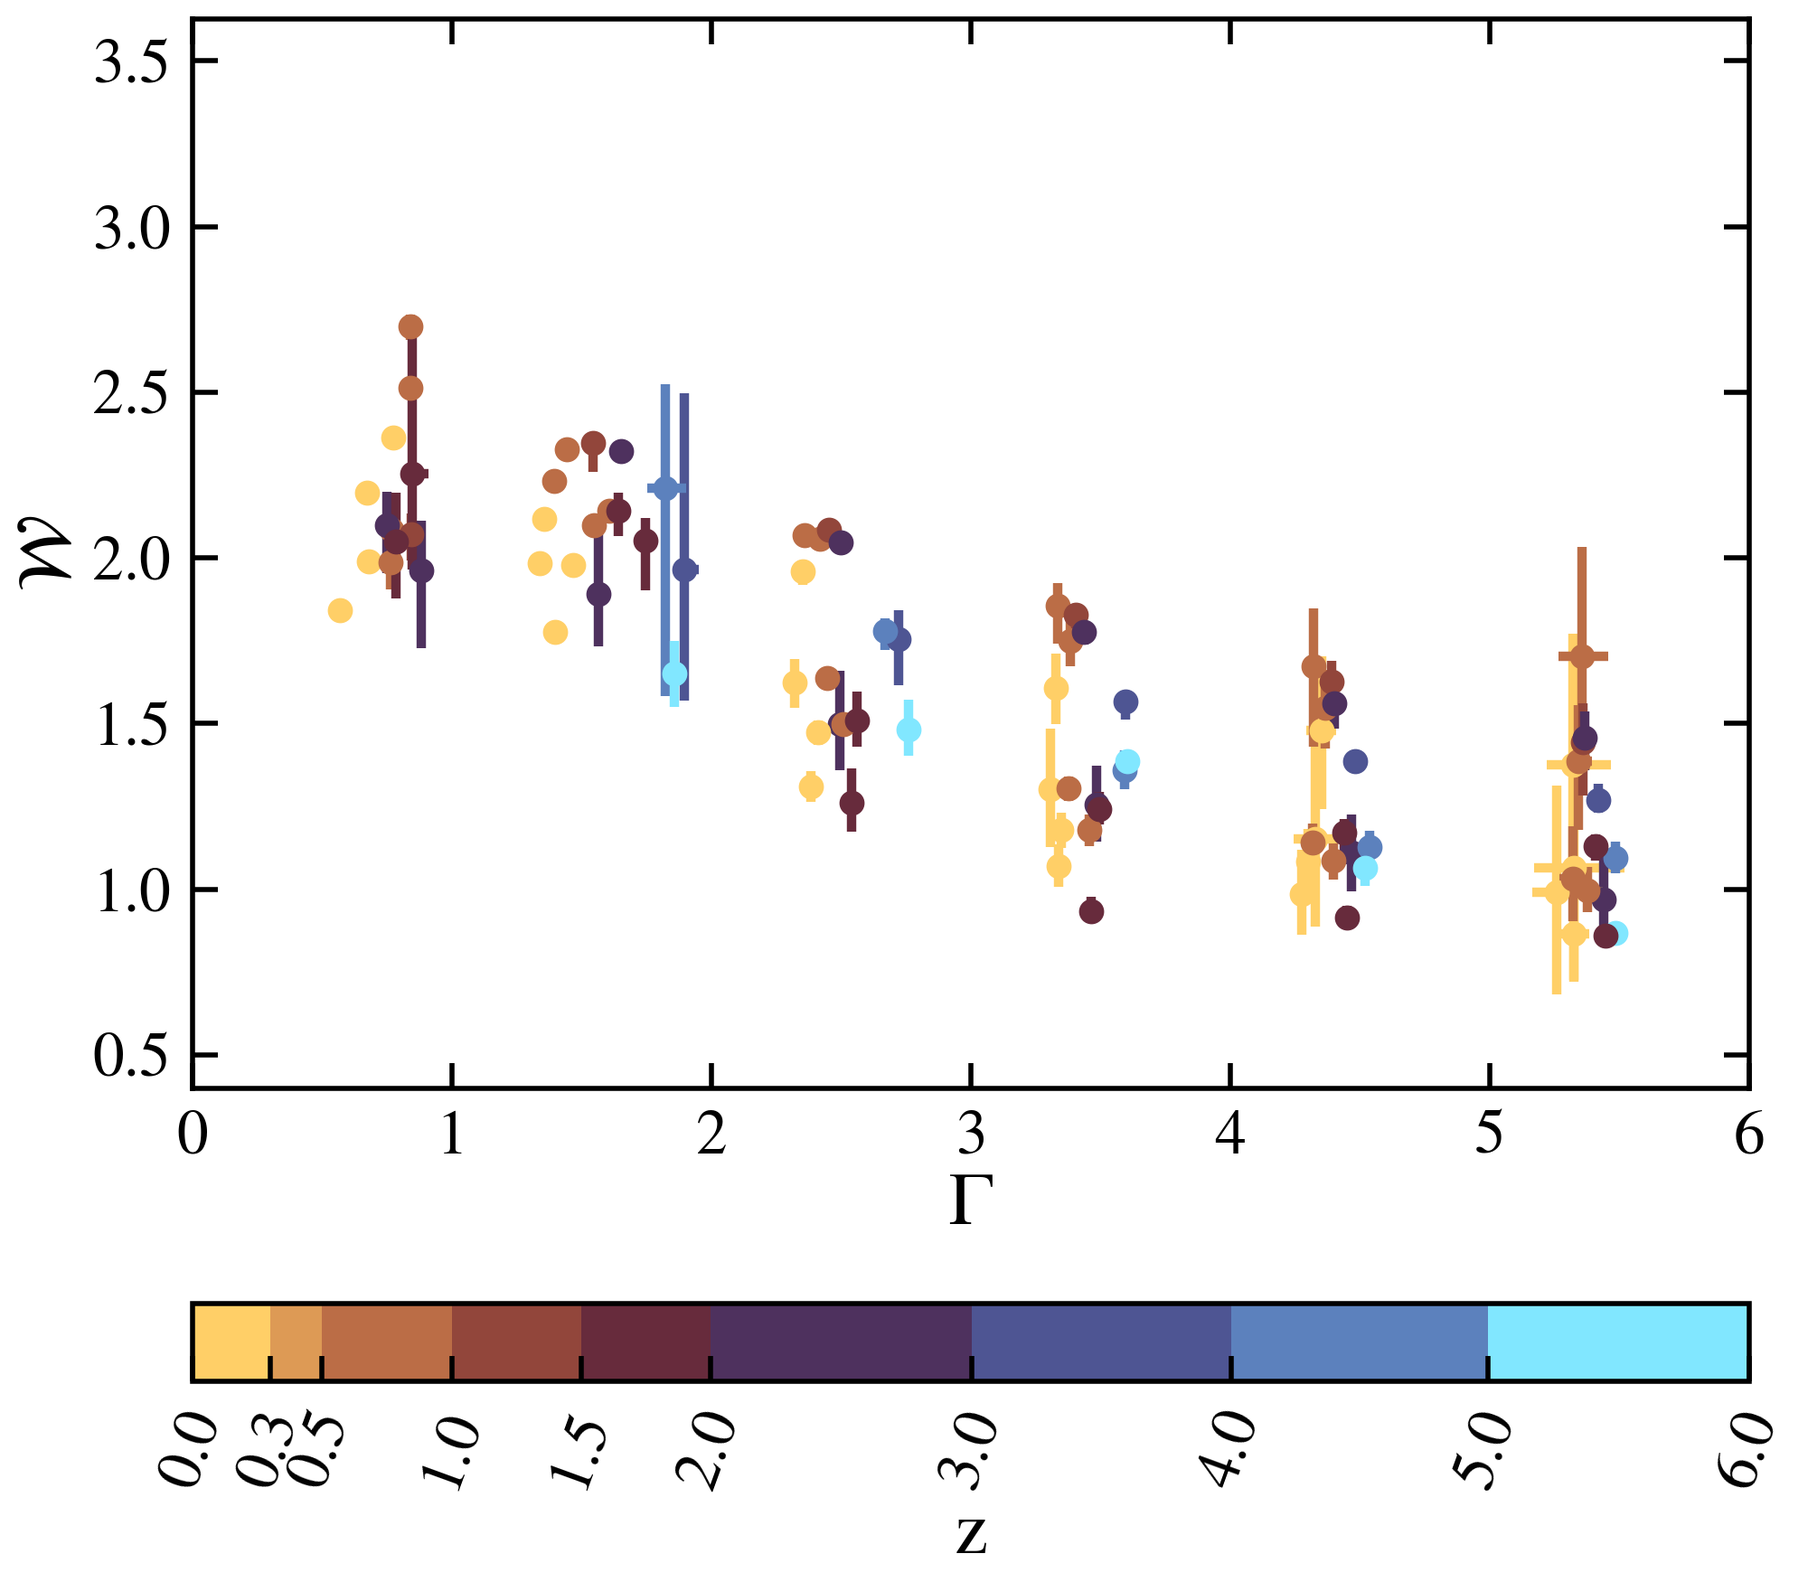
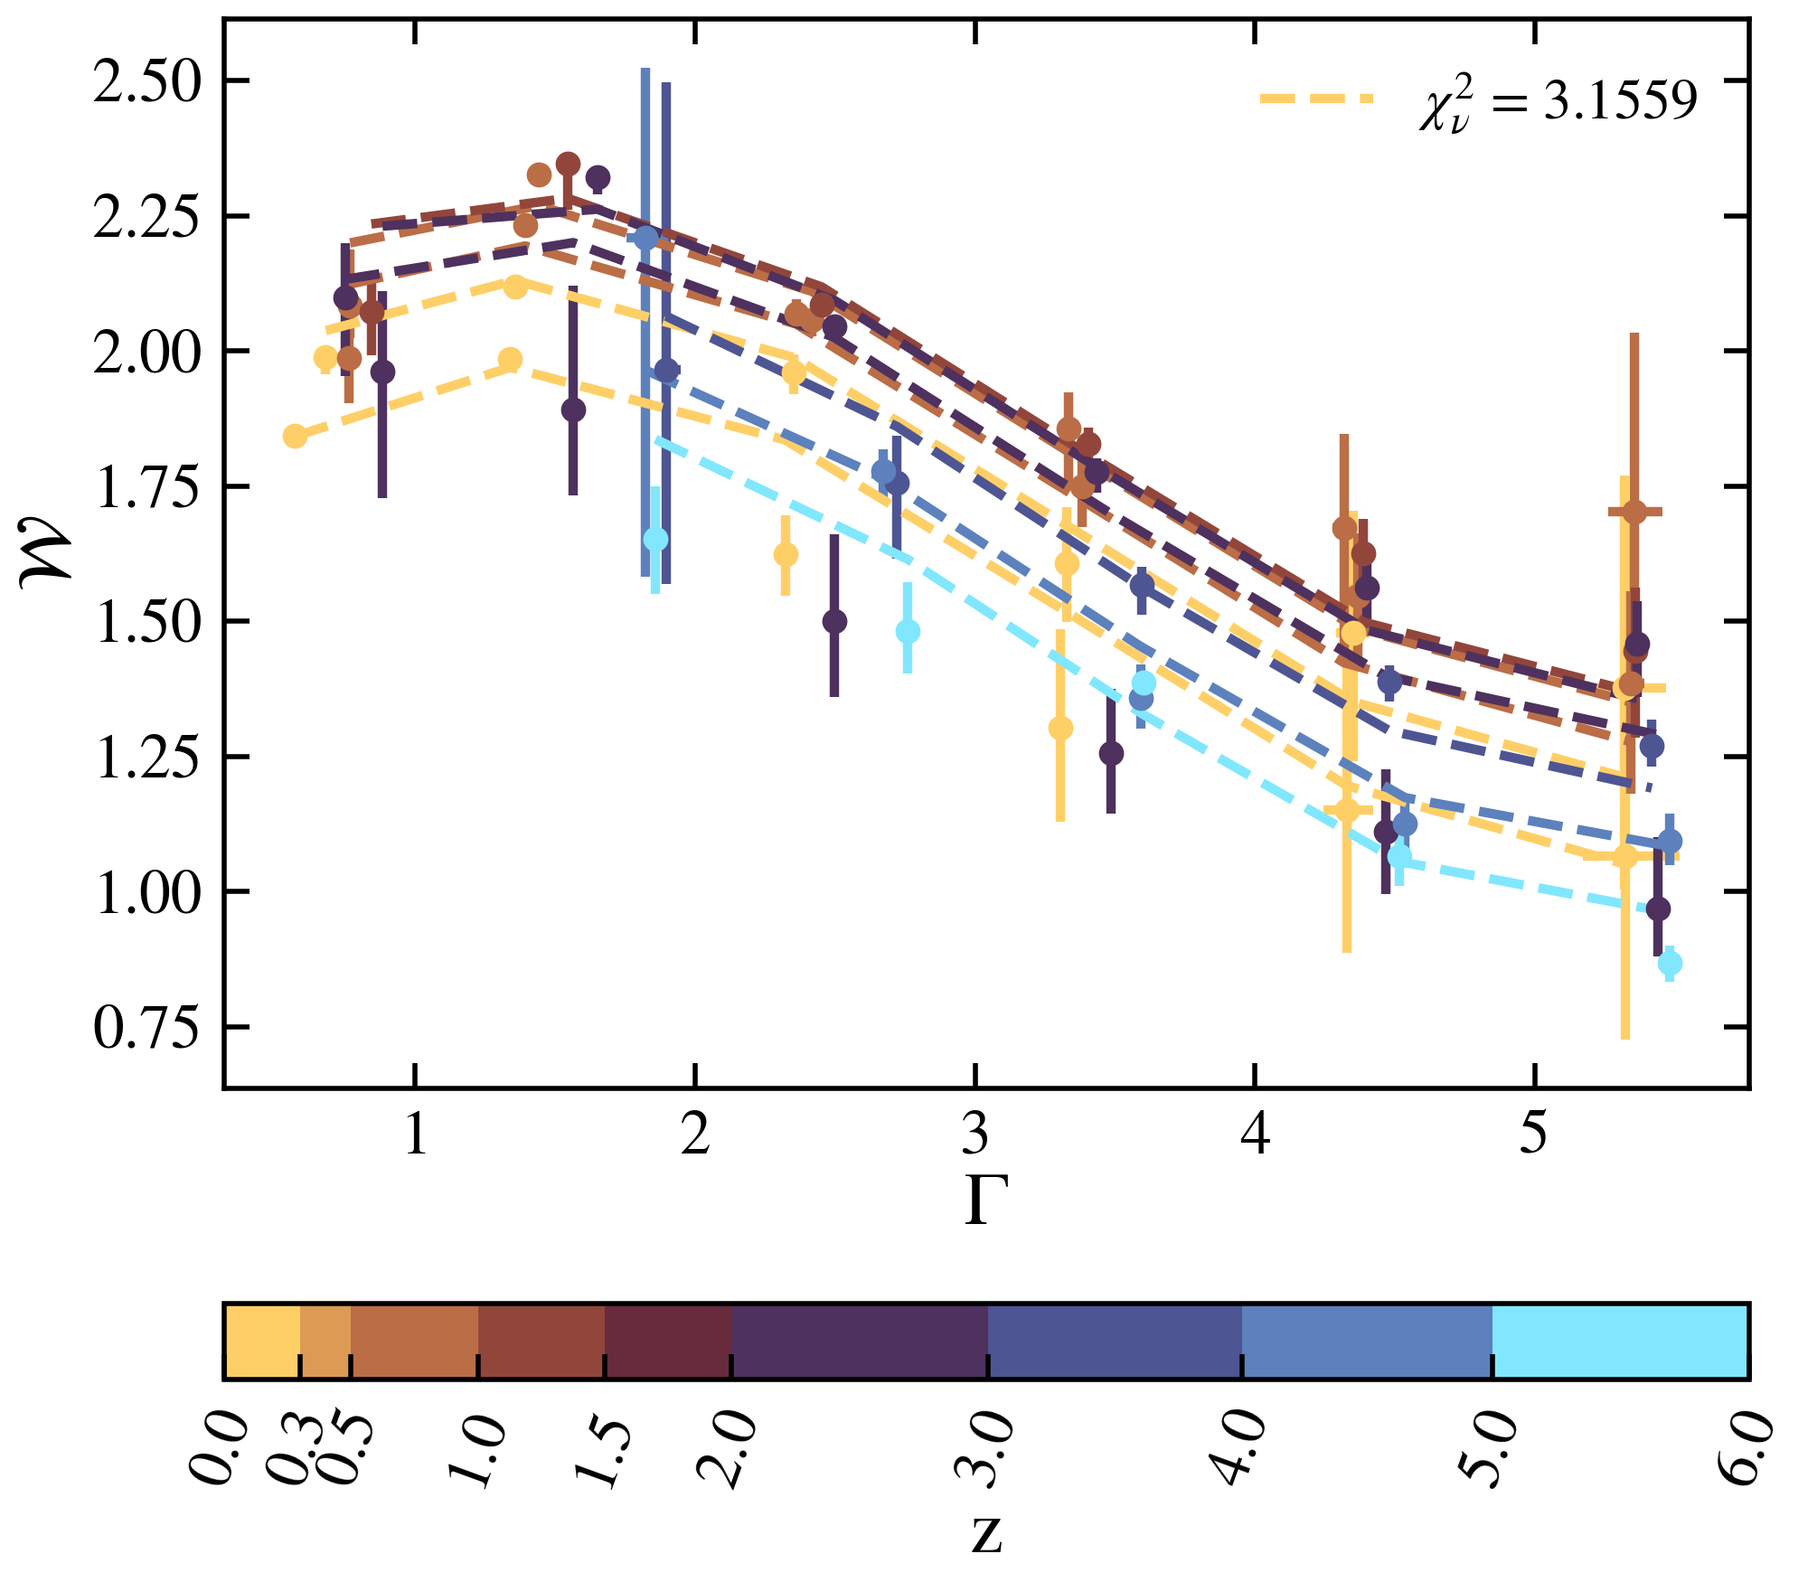
fitting

diff --git a/code/paper_plot/fig3_accret.py b/code/paper_plot/fig3_accret.py
@@ -10,10 +10,34 @@ print('>>> Plot depth and width vs accretion rate <<<')
 print('')
 
 root_dir = 'result/bootstrap_stats/with_accret/'
-simus = ['Hydro', 'DM']
-features = ['width_dimless' , 'abs_depth', 'depth']
+simus = ['Hydro','DM']
+features = ['width_dimless', 
+            #'abs_depth',
+           # 'depth'
+            ]
+upper_limit = 6
+    
+
+# ============================================================================================
+# Define the fitting function with two variables
+# ============================================================================================
+def accret_depth(inputs, a, b, c, e, f):
+    Gamma, zval = inputs
+    
+    return a*Gamma + b*Gamma**2 + c*Gamma**3 + e/(zval+1) + f/Gamma
+
+def accret_width(inputs, a, b, c, d, e, f,):
+    Gamma, zval = inputs
+    # return a*zval**2*Gamma + b*zval**2 + c*zval + d*Gamma + e*Gamma*zval + f
+    return  a*Gamma + b*Gamma**2 + c*Gamma**3 + d/(zval+1) + f*zval + e
+
 for simu in simus:
     for feature in features:
+        
+        if feature == 'depth':
+            fit_func = accret_depth
+        elif feature == 'width_dimless':
+            fit_func = accret_width
 
         # ============================================================================================
         # Set up the plot
@@ -54,34 +78,100 @@ for simu in simus:
         # ============================================================================================
         # Plot
         # ============================================================================================
-
+        
+        all_z, all_x_med, all_x_min, all_x_max = [], [], [], []
+        all_y_med, all_y_min, all_y_max = [], [], []
+        
         # Plot TNG300
         for snap in TNG300_snaps:  
 
-            TNG300_z, TNG300_mass, TNG300_feat = load_stats(TNG300_dir, f'snap_{snap}_Rsp_stats.npy', 
+            TNG300_z, TNG300_accret, TNG300_feat = load_stats(TNG300_dir, f'snap_{snap}_Rsp_stats.npy', 
                                                             'med_accret', feature)
-            plot_feature(simu, TNG300_z, TNG300_mass, TNG300_feat, [axs, cmap, norm])
+            # Filter out data greater than 6
+            mask = TNG300_accret['median'] <= upper_limit
+            TNG300_accret['median'] = TNG300_accret['median'][mask]
+            TNG300_accret['min'] = TNG300_accret['min'][mask]
+            TNG300_accret['max'] = TNG300_accret['max'][mask]
+            TNG300_feat['median'] = TNG300_feat['median'][mask]
+            TNG300_feat['min'] = TNG300_feat['min'][mask]
+            TNG300_feat['max'] = TNG300_feat['max'][mask]
+            
+            plot_feature(simu, TNG300_z, TNG300_accret, TNG300_feat, [axs, cmap, norm])
+            
+            # Append the data
+            all_x_med.append(TNG300_accret['median'])
+            all_x_min.append(TNG300_accret['min'])
+            all_x_max.append(TNG300_accret['max'])
+            all_y_med.append(TNG300_feat['median'])
+            all_y_min.append(TNG300_feat['min'])
+            all_y_max.append(TNG300_feat['max'])
+            # Duplicate z to the same length as the data
+            all_z.append([TNG300_z]*len(TNG300_accret['median']))
 
-        # Plot MTNG
-        for snap in MTNG_snaps:
+        # # Plot MTNG
+        # for snap in MTNG_snaps:
 
-            MTNG_z, MTNG_mass, MTNG_feat = load_stats(MTNG_dir, f'snap_{snap}_Rsp_stats.npy',
-                                                      'med_accret', feature)
-            plot_feature(simu, MTNG_z, MTNG_mass, MTNG_feat, [axs, cmap, norm])
+        #     MTNG_z, MTNG_accret, MTNG_feat = load_stats(MTNG_dir, f'snap_{snap}_Rsp_stats.npy',
+        #                                               'med_accret', feature)
+        #     # Filter out data greater than 6
+        #     mask = MTNG_accret['median'] <= upper_limit
+        #     MTNG_accret['median'] = MTNG_accret['median'][mask]
+        #     MTNG_accret['min'] = MTNG_accret['min'][mask]
+        #     MTNG_accret['max'] = MTNG_accret['max'][mask]
+        #     MTNG_feat['median'] = MTNG_feat['median'][mask]
+        #     MTNG_feat['min'] = MTNG_feat['min'][mask]
+        #     MTNG_feat['max'] = MTNG_feat['max'][mask]
+            
+        #     plot_feature(simu, MTNG_z, MTNG_accret, MTNG_feat, [axs, cmap, norm])
+            
+        #     # Append the data
+        #     all_x_med.append(MTNG_accret['median'])
+        #     all_x_min.append(MTNG_accret['min'])
+        #     all_x_max.append(MTNG_accret['max'])
+        #     all_y_med.append(MTNG_feat['median'])
+        #     all_y_min.append(MTNG_feat['min'])
+        #     all_y_max.append(MTNG_feat['max'])
+        #     # Duplicate z to the same length as the data
+        #     all_z.append([MTNG_z]*len(MTNG_accret['median']))
+        
+        # ============================================================================================
+        # Fitting
+        # ============================================================================================
+        
+        # Concatenate the data to one dimension
+        all_x_med = np.concatenate(all_x_med)
+        all_x_min = np.concatenate(all_x_min)
+        all_x_max = np.concatenate(all_x_max)
+            
+        all_y_med = np.concatenate(all_y_med)
+        all_y_min = np.concatenate(all_y_min)
+        all_y_max = np.concatenate(all_y_max)
 
-        axs.set_xlim(0, 6)
+        all_z = np.concatenate(all_z)
+        
+        # Fit the data
+        popt, red_chi2, y_fit, axs = fitting(all_z, 
+                                              all_x_med, all_x_min, all_x_max, 
+                                              all_y_med, all_y_min, all_y_max,
+                                              fit_func, [axs, cmap, norm])
+        print(f'{simu} {feature} popt: {popt}')
+        print(f'{simu} {feature} red_chi2: {red_chi2}')
+        
+        # ============================================================================================
+        # Save the plot
+        # ============================================================================================
+        
+        # axs.set_xlim(0, 6)
         if feature == 'abs_depth':
             Y_label = r"|$\mathcal{D}$|"
         elif feature == 'width_dimless':
             Y_label = r"$\mathcal{W}$"
         else:
             Y_label = r"$\mathcal{D}$"
+            axs.set_ylim(1, 4)
         axs.set_ylabel(Y_label)
         axs.set_xlabel(r'$\Gamma$')
-
-        # ============================================================================================
-        # Save the plot
-        # ============================================================================================
+        axs.legend()
 
         save_dir = f'result/paper_plots/'
         if not os.path.exists(save_dir):

diff --git a/code/paper_plot/fig3_mass.py b/code/paper_plot/fig3_mass.py
@@ -11,10 +11,31 @@ print('')
 
 root_dir = 'result/bootstrap_stats/with_mass/'
 simus = ['Hydro', 'DM']
-features = ['abs_depth', 'depth', 'width_dimless']
+features = [# abs_depth', 
+            'width_dimless',
+           'depth', 
+            ]
+
+# ============================================================================================
+# Define the fitting function with two variables
+# ============================================================================================
+def mass_depth(inputs, a, d, e, f):
+    x, zval = inputs
+    
+    return e + f*zval + d*np.log10(x)/(zval+1) + a*np.log10(x) 
+
+def mass_width(inputs, a, b, c, d, A, B, C, D):
+    x, zval = inputs
+    return a*(zval+1)**A + b*(zval+1)**B*np.log10(x) + c*(zval+1)**C*np.log10(x)**2 + d*zval + D*np.exp(-zval**2)*np.log10(x)**3
 
 for simu in simus:
     for feature in features:
+        
+        if feature == 'depth':
+            fit_func = mass_depth
+        elif feature == 'width_dimless':
+            fit_func = mass_width
+            
         # ============================================================================================
         # Set up the plot
         # ============================================================================================
@@ -54,19 +75,67 @@ for simu in simus:
         # ============================================================================================
         # Plot
         # ============================================================================================
-                
+        
+        all_z, all_x_med, all_x_min, all_x_max = [], [], [], []
+        all_y_med, all_y_min, all_y_max = [], [], []
+              
         # Plot TNG300
         for snap in TNG300_snaps:
             TNG300_z, TNG300_mass, TNG300_feat = load_stats(TNG300_dir, f'snap_{snap}_Rsp_stats.npy',  
                                                             'med_mass', feature)
             plot_feature(simu, TNG300_z, TNG300_mass, TNG300_feat, [axs, cmap, norm])
-                
+            
+            # Append the data
+            all_x_med.append(TNG300_mass['median'])
+            all_x_min.append(TNG300_mass['min'])
+            all_x_max.append(TNG300_mass['max'])
+            all_y_med.append(TNG300_feat['median'])
+            all_y_min.append(TNG300_feat['min'])
+            all_y_max.append(TNG300_feat['max'])
+            # Duplicate z to the same length as the data
+            all_z.append([TNG300_z]*len(TNG300_mass['median']))
+            
         # Plot MTNG
-        for snap in MTNG_snaps:
+        for snap in [MTNG_snaps[5]]:
             MTNG_z, MTNG_mass, MTNG_feat = load_stats(MTNG_dir, f'snap_{snap}_Rsp_stats.npy',
                                                       'med_mass', feature)
             plot_feature(simu, np.round(MTNG_z, 1), MTNG_mass, MTNG_feat, [axs, cmap, norm])
-
+            
+            # Append the data
+            all_x_med.append(MTNG_mass['median'])
+            all_x_min.append(MTNG_mass['min'])
+            all_x_max.append(MTNG_mass['max'])
+            all_y_med.append(MTNG_feat['median'])
+            all_y_min.append(MTNG_feat['min'])
+            all_y_max.append(MTNG_feat['max'])
+            # Duplicate z to the same length as the data
+            all_z.append([MTNG_z]*len(MTNG_mass['median']))
+        
+        # ============================================================================================
+        # Fitting
+        # ============================================================================================
+        
+        # Concatenate the data to one dimension
+        all_x_med = np.concatenate(all_x_med)
+        all_x_min = np.concatenate(all_x_min)
+        all_x_max = np.concatenate(all_x_max)
+            
+        all_y_med = np.concatenate(all_y_med)
+        all_y_min = np.concatenate(all_y_min)
+        all_y_max = np.concatenate(all_y_max)
+        
+        all_z = np.concatenate(all_z)
+        
+        # Fit the data
+        popt, red_chi2, y_fit, axs = fitting(all_z, 
+                                              all_x_med, all_x_min, all_x_max, 
+                                              all_y_med, all_y_min, all_y_max,
+                                              fit_func, [axs, cmap, norm])
+        print(popt)
+        # ============================================================================================
+        # Save the plot
+        # ============================================================================================
+        
         axs.set_xscale('log')
         axs.set_xlabel(r"$M_\odot$")
         if feature == 'abs_depth':
@@ -76,11 +145,7 @@ for simu in simus:
         else:
             Y_label = r"$\mathcal{D}$"
         axs.set_ylabel(Y_label)
-
-        # ============================================================================================
-        # Save the plot
-        # ============================================================================================
-
+        axs.legend(loc='best')
         save_dir = f'result/paper_plots/'
         if not os.path.exists(save_dir):
             os.makedirs(save_dir)

diff --git a/code/bootstrap/boots_func.py b/code/bootstrap/boots_func.py
@@ -17,7 +17,7 @@ def init_mass_bins(mass_1d_array, bin_width):
     for mass_bin in mass_bins[:-1]:
         num_halos_in_bin = np.where((log10_mass >= mass_bin) & (log10_mass < mass_bin+bin_width))[0].shape[0]
         # print(mass_bin, num_halos_in_bin)
-        if num_halos_in_bin > 10:
+        if num_halos_in_bin > 100:
             new_mass_bins.append(mass_bin)
             
     if len(new_mass_bins) != 0:
@@ -63,7 +63,7 @@ def bootstrap_all_features(args, params, data, formation_z=None, bin_width=0.5):
                                             [10**m for m in mass_bins[1:]])
             print('Number of halos in bins: ', num_halos_per_bin)
             
-            if all(x > 2 for x in num_halos_per_bin):
+            if all(x > 5 for x in num_halos_per_bin):
                 
                 for i in range(num_bins):
                     if reject_times[i] < 10:
@@ -82,13 +82,14 @@ def bootstrap_all_features(args, params, data, formation_z=None, bin_width=0.5):
                             # Fit the slope
                             fitted_slope = num_deriv(np.log(fitted_radius), np.log(fitted_rho)) # [dimensionless]
                             
-                            # # Plot the data and the fit
-                            # fname = f'form_z{int(np.round(formation_z, 3)*100)}_boots{valid_boots}_bin{i}'
-                            # plot_profile(radius, 
-                            #             rho, rho_err, 
-                            #             slope, slope_err, 
-                            #             fitted_radius, fitted_rho, fitted_slope, 
-                            #             fname, save_dir='result/bootstrap_plots/')
+                            # Plot the data and the fit
+                            fname = f'form_z{int(np.round(formation_z, 3)*100)}_boots{valid_boots}_bin{i}'
+                            if valid_boots == 0:
+                                plot_profile(radius, 
+                                            rho, rho_err, 
+                                            slope, slope_err, 
+                                            fitted_radius, fitted_rho, fitted_slope, 
+                                            fname, save_dir='result/bootstrap_plots/')
                 
                             # Compute the median mass in the mass cut
                             med_mass = compute_median(select_masses, 10**mass_bins[i], 10**mass_bins[i+1])

diff --git a/code/paper_plot/func.py b/code/paper_plot/func.py
@@ -1,5 +1,6 @@
 import numpy as np
-
+from matplotlib import pyplot as plt
+    
 def load_stats(dir, fname, xlabel, ylabel, bin_val='z'):
     data = np.load(f'{dir}/{fname}', allow_pickle=True).item()
 
@@ -14,6 +15,45 @@ def load_stats(dir, fname, xlabel, ylabel, bin_val='z'):
     x_dict = {'median': x, f'min': xmin, f'max': xmax}
     y_dict = {'median': y, f'min': ymin, f'max': ymax}
     return z, x_dict, y_dict
+
+# Define the fitting with two variables
+def fitting(z, x, xmin, xmax, y, ymin, ymax, func, plot_info):
+    from scipy.odr import Model, RealData, ODR
+    from scipy.optimize import curve_fit
+    
+    z = np.asarray(z)
+    # Get the mean eroors
+    x_err = (xmax - xmin) / 2
+    y_err = (ymax - ymin) / 2
+
+    # yerr plus epsilon if yerr is zero
+    y_err[y_err == 0] = 1e-1
+    
+    # Curve fitting with input sigma
+    p0 = [1] * (func.__code__.co_argcount - 1)  
+    popt, pcov = curve_fit(func, (x, z), y, p0=p0,   
+                           sigma=y_err, 
+                           maxfev=100000)
+    perr = np.sqrt(np.diag(pcov))
+
+    # Compute reduced chi-square 
+    y_fit = func([x, z], *popt)
+    red_chi2 = np.sum((y-y_fit)**2 / y_err**2) / (len(y) - len(popt))
+    
+    # Plot the fitting
+    axs, cmap, norm = plot_info
+
+    for uniq_z in np.unique(z):
+        iz = np.where(uniq_z == z)[0]
+        if uniq_z in [0]:
+            # sort according to x
+            idx = np.argsort(x[iz])
+            axs.plot(x[iz][idx], y_fit[iz][idx], c=cmap(norm(uniq_z)), label=r'$\chi^2_{\nu}$ = '+f'{red_chi2:.4f}', ls='--')
+        else:
+            idx = np.argsort(x[iz])
+            axs.plot(x[iz][idx], y_fit[iz][idx], c=cmap(norm(uniq_z)), ls='--')
+   
+    return popt, red_chi2, y_fit, axs
     
 def load_stats_per_bin(dir, fname_format, fname_val, 
                        xlabel, ylabel, bin_name, bin_start_val):

diff --git a/code/paper_plot/fig5_formz.py b/code/paper_plot/fig5_formz.py
@@ -10,7 +10,9 @@ print('>>> Plot depth and width vs accretion rate <<<')
 print('')
 
 root_dir = 'result/bootstrap_stats/with_formation_z/'
-simus = ['Hydro', 'DM']
+simus = ['DM',
+        'Hydro', 
+        ]
 feature = 'width_dimless' 
 
 for simu in simus:
@@ -45,7 +47,7 @@ for simu in simus:
         return f'{x:.1f}'  
     cb.ax.xaxis.set_major_formatter(FuncFormatter(custom_format)) 
     cb.ax.tick_params(axis='x', rotation=70) 
-    cb.set_label('z')
+    cb.set_label(r'$z_0$')
     # -----------------------------------------------------------------------------------------
     
     # ============================================================================================
